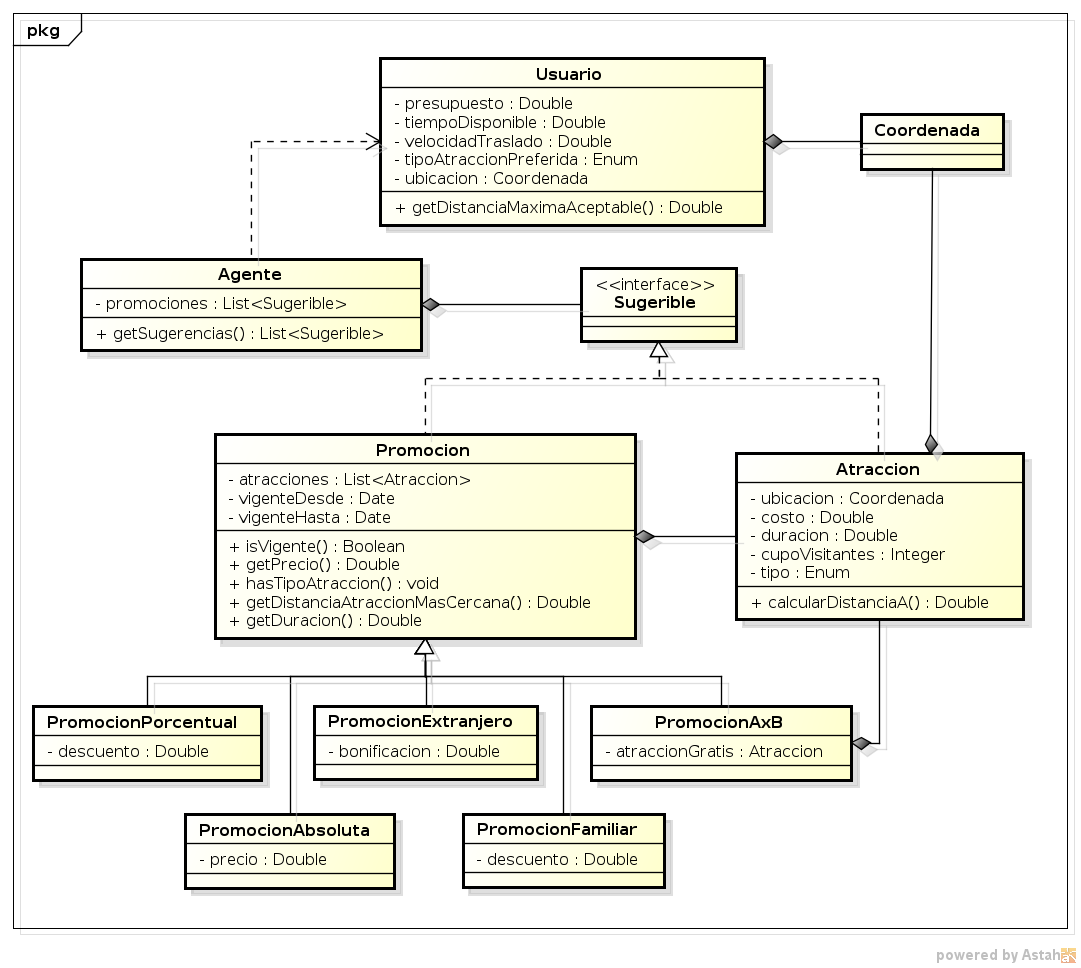
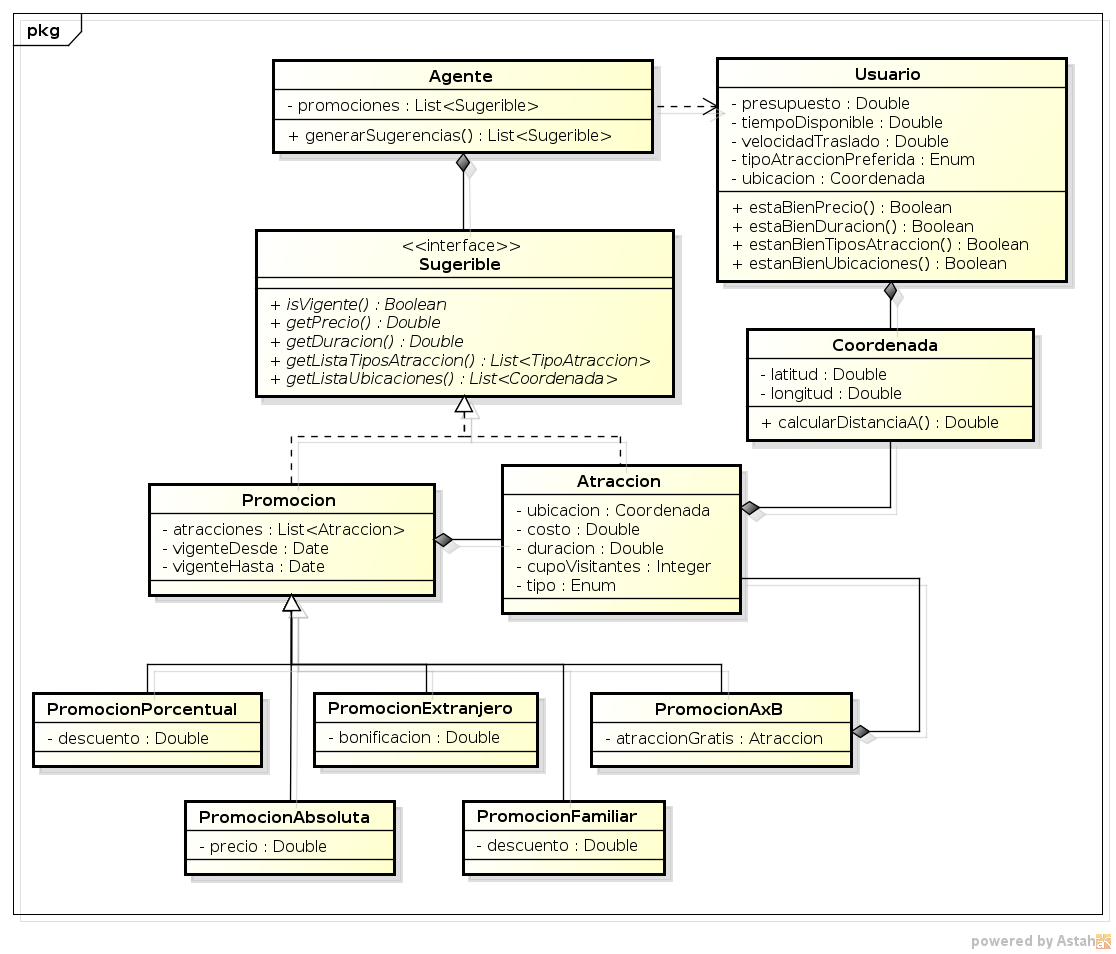
Actualiza diagramas.

diff --git a/docs/diagramas.md b/docs/diagramas.md
@@ -1,0 +1,15 @@
+Turismo en Tierra Media
+=======================
+
+Diagrama de Dominio
+-------------------
+
+![Diagrama de Dominio](diagrama_de_dominio.png "Diagrama de Dominio")
+
+
+Diagrama de Secuencia
+---------------------
+
+### Agente.generarSugerencias
+
+![Agente.generarSugerencias](secuencia_agente-generar_sugerencias.png "Diagrama de Secuencia: Agente.generarSugerencias")
